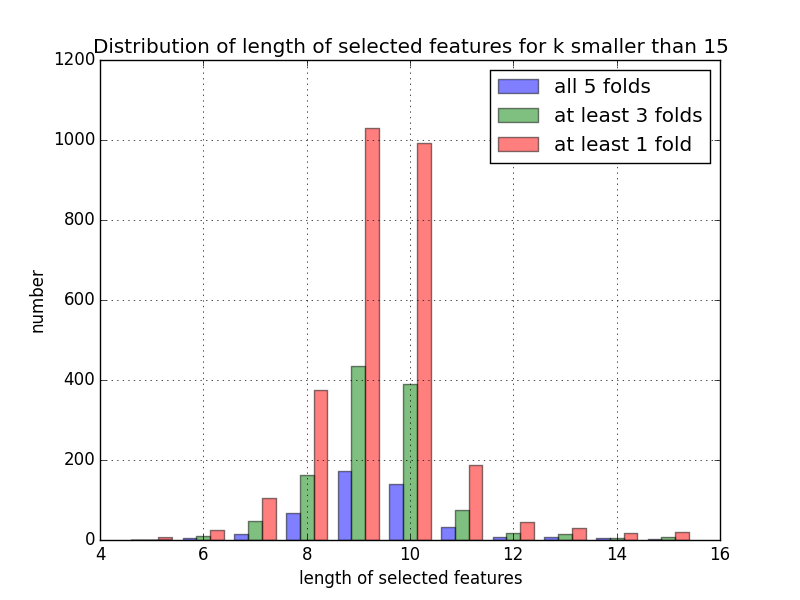
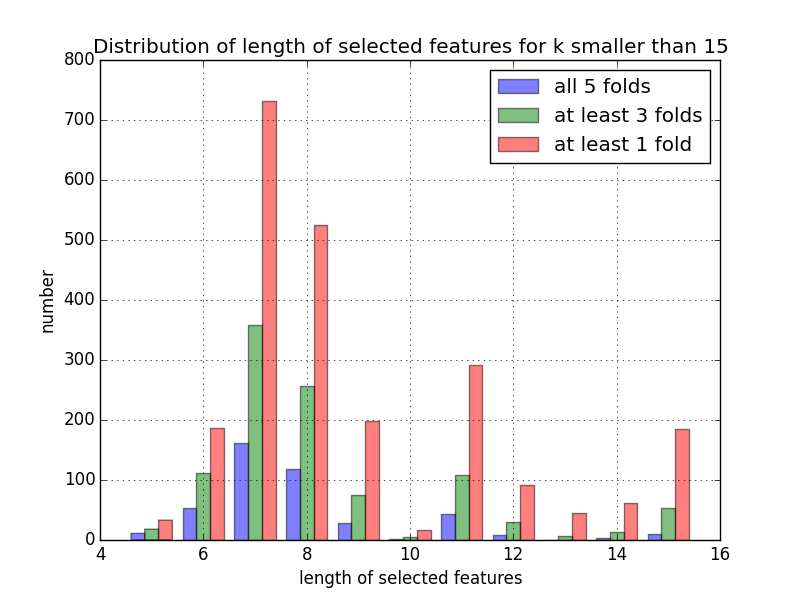
2016-06-08 modified

diff --git a/content/2016-06-08.md b/content/2016-06-08.md
@@ -23,6 +23,7 @@ And the distribution of the length of the selected features, which is not largel
 
 The number of longer selected features can be increased by reweighting the length of k-mers. More precisely, by imposing a larger $\lambda$ for shorter features, there would be more sparsity within these patterns in the linear estimate.
 
-I display below the distribution of length of the selected features with a linearly increasing weight for length of k-mers.
+I display below the distribution of length of the selected features with a linearly increasing weight (0.3 for k<11, and linspace(0.5,1) for k>=11) for length of k-mers.
 
 ![selected_features]({filename}/images/selected_features/intercept/logY_concatenate_filter1000/log_entropy/histo_15_rc_w.png)
+![selected_features]({filename}/images/selected_features/intercept/logY_concatenate_filter1000/log_entropy/histo_15_rc_w2.png)
